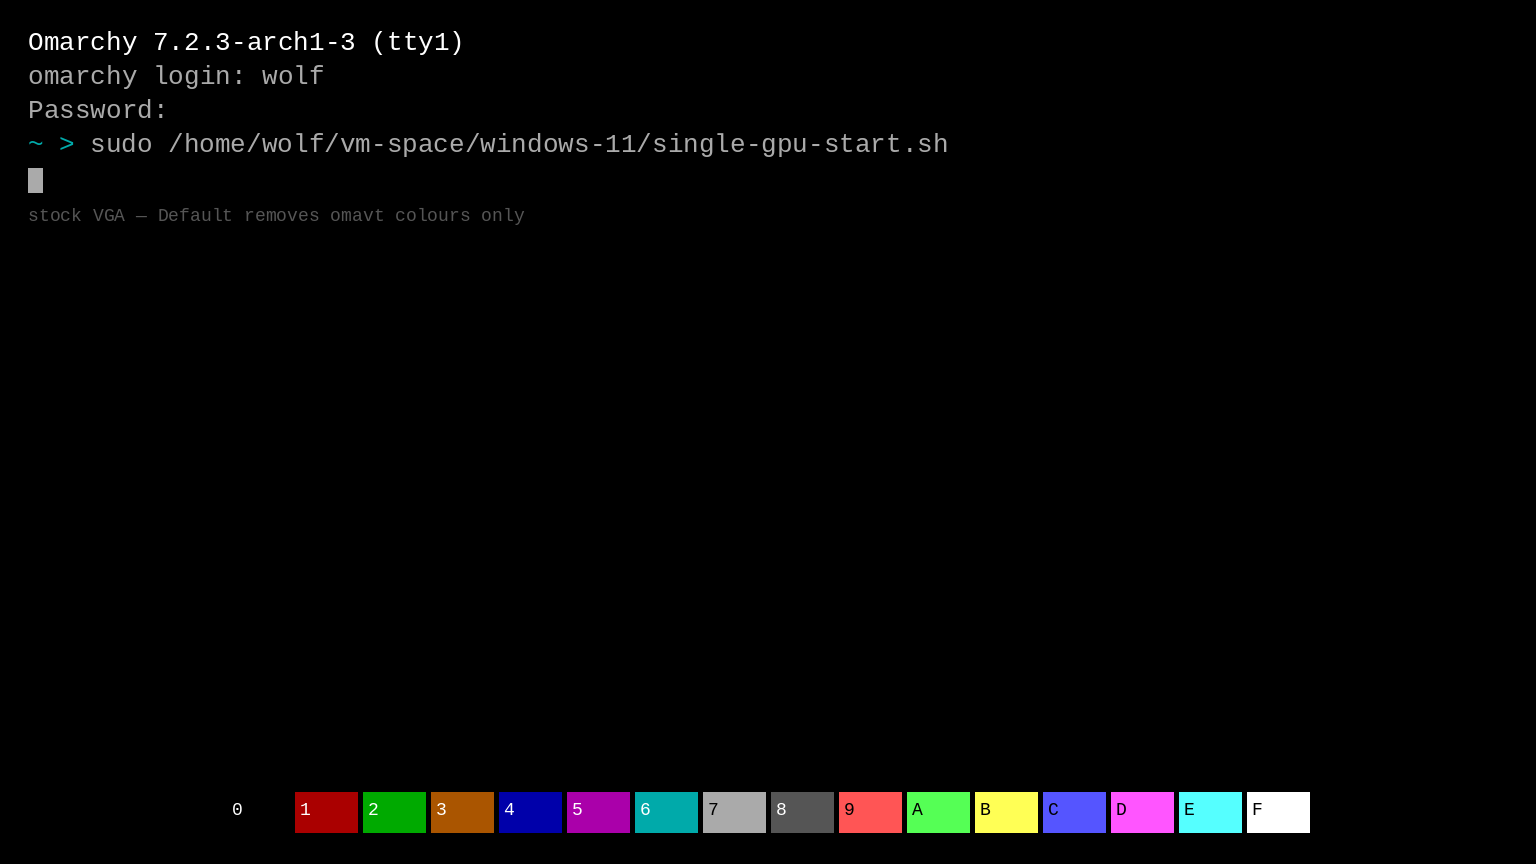
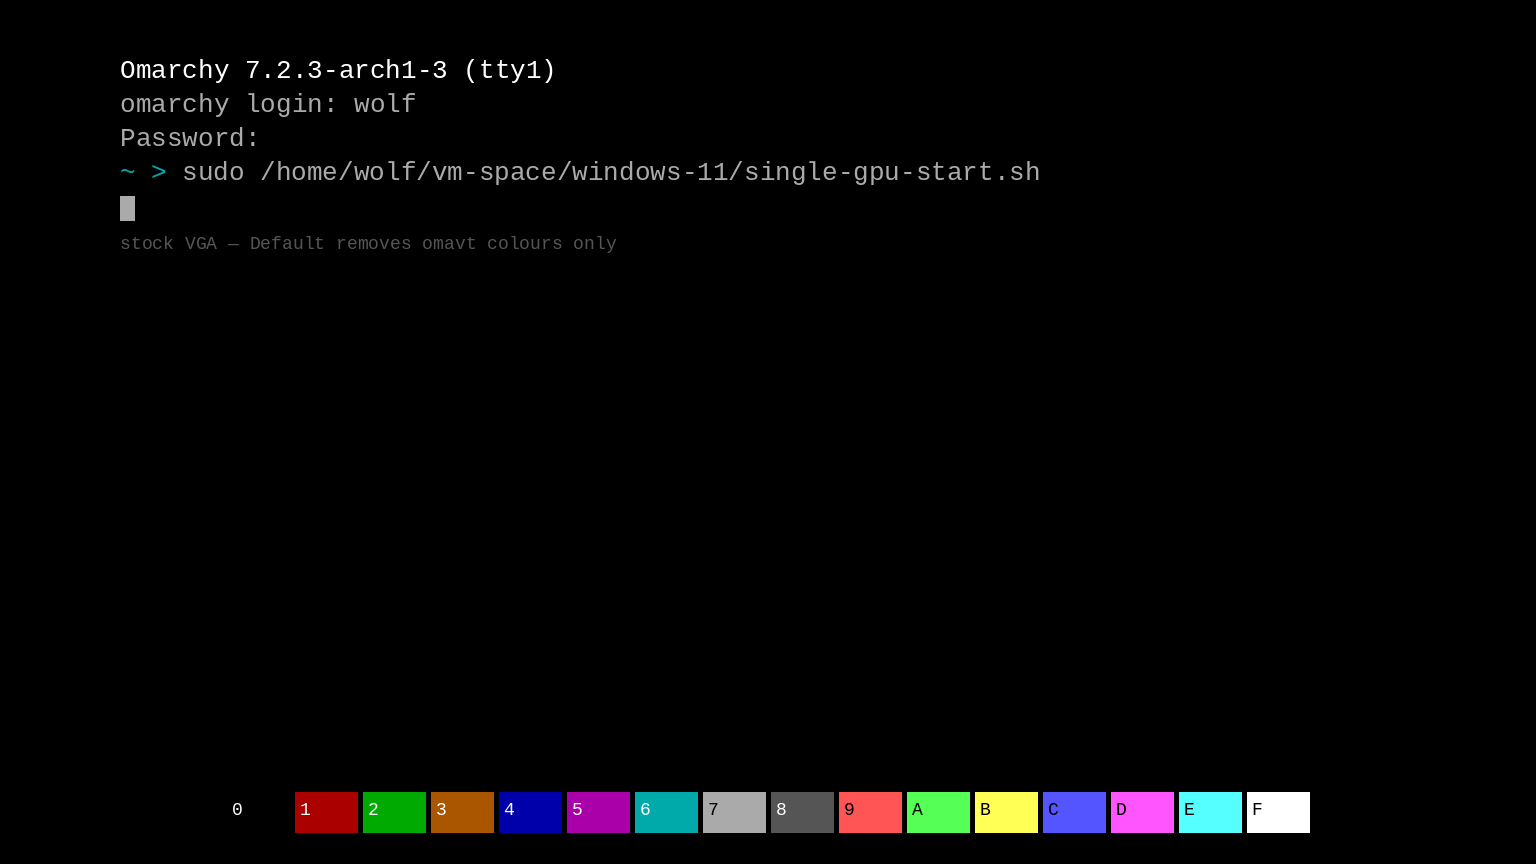
Inset TTY mockups for Style carousel side crop.
Session text and strip stay inside SAFE_X=120 so the 768×475 tile no longer
shaves getty chrome.

Changed region(s): [[0.0, 0.0312, 0.6875, 0.2188], [0.0625, 0.2188, 0.3438, 0.2812], [0.0, 0.1875, 0.0312, 0.2188]]

diff --git a/lib/omavt.py b/lib/omavt.py
@@ -507,11 +507,12 @@ def rebuild_limine() -> None:
         raise RuntimeError(f"limine-update failed: {err}")
 
 
-# omarchy-menu-images thumbnails every source to 1536×864 (16:9). Current TTY
-# chrome is top-left (real getty), so side crop barely matters; colour strip
-# stays centered at the bottom.
+# omarchy-menu-images serves 1536×864 then crops to a 768×475 tile
+# (PreserveAspectCrop — shaves the sides). Keep session + strip inside ~8%
+# horizontal margins so the carousel does not eat the getty text.
 MOCKUP_SIZE = (1536, 864)
-SAFE_X = 48
+SAFE_X = 120
+SAFE_Y = 56
 
 
 def tty_banner(tty: str = "tty1") -> str:
@@ -553,7 +554,8 @@ def render_mockup(
     Layout tracked from a default dark TTY QEMU capture (getty on tty1 after
     SDDM off — nested Omarchy cannot Ctrl+Alt+F3). Same session script as
     OmaTTY: login as wolf, then the single-GPU passthrough starter. Not a
-    live VT framebuffer capture.
+    live VT framebuffer capture. Content stays inside SAFE_X for the Style
+    carousel crop.
     """
     w, h = size
     ansi: list[tuple[int, int, int]] = palette["ansi"]
@@ -569,31 +571,39 @@ def render_mockup(
     mono = try_font(26)
     mono_sm = try_font(18)
 
-    # Real console is top-left, not a centered card.
-    origin_x, origin_y = 28, 28
+    # Top-left like real getty, but inset so side crop does not shave glyphs.
+    origin_x, origin_y = SAFE_X, SAFE_Y
     line_h = 34
+    max_x = w - SAFE_X
 
     # Keep session lines in sync with OmaTTY (sibling Style plugin).
     banner = tty_banner("tty1")
     prompt = "~ > "
     command = "sudo /home/wolf/vm-space/windows-11/single-gpu-start.sh"
 
+    def draw_clipped(x: int, y: int, text: str, fill: tuple[int, int, int], font: ImageFont.ImageFont) -> None:
+        # Drop characters that would paint past the right safe edge.
+        while text and x + int(draw.textlength(text, font=font)) > max_x:
+            text = text[:-1]
+        if text:
+            draw.text((x, y), text, font=font, fill=fill)
+
     y = origin_y
-    draw.text((origin_x, y), banner, font=mono, fill=bright)
+    draw_clipped(origin_x, y, banner, bright, mono)
     y += line_h
-    draw.text((origin_x, y), "omarchy login: wolf", font=mono, fill=fg)
+    draw_clipped(origin_x, y, "omarchy login: wolf", fg, mono)
     y += line_h
-    draw.text((origin_x, y), "Password:", font=mono, fill=fg)
+    draw_clipped(origin_x, y, "Password:", fg, mono)
     y += line_h
-    draw.text((origin_x, y), prompt, font=mono, fill=cyan)
+    draw_clipped(origin_x, y, prompt, cyan, mono)
     prompt_w = int(draw.textlength(prompt, font=mono))
-    draw.text((origin_x + prompt_w, y), command, font=mono, fill=fg)
+    draw_clipped(origin_x + prompt_w, y, command, fg, mono)
     y += line_h
     draw.rectangle((origin_x, y + 4, origin_x + 14, y + line_h - 6), fill=fg)
 
     if palette.get("is_default"):
         note = "stock VGA — Default removes omavt colours only"
-        draw.text((origin_x, y + line_h + 8), note, font=mono_sm, fill=muted)
+        draw_clipped(origin_x, y + line_h + 8, note, muted, mono_sm)
 
     strip_y = h - 72
     cell_w = 68

diff --git a/README.md b/README.md
@@ -39,7 +39,7 @@ making *another* theme is more worth it. Longer origin / stop-line:
 | Zero extra assets | No `preview-tty.png`, no per-theme VT files. Colours come from `colors.toml` alone. |
 | Extreme compatibility | Stock + user + foreign themes all appear in the picker automatically. |
 | True Theme Vibe | Top-left getty session + 16-colour strip from `colors.toml` / VGA Default. **Much closer** to a real TTY than a framed fake window — still not a live `/dev/tty` capture. |
-| Carousel-safe | Mockups are 1536×864. Session is top-left like real getty; the 768×475 tile crop mostly shaves empty sides. |
+| Carousel-safe | Mockups are 1536×864 with ~8% side inset (SAFE_X=120). Session stays top-left *inside* that margin so the 768×475 tile crop does not shave getty text. |
 | Slow pickers are OK | Warming ~20+ PNGs takes a moment; that is the cost of generating previews instead of bundling assets. |
 
 We are **not** putting WYSIWYG screenshots in themes. Themes stay palette-only;
